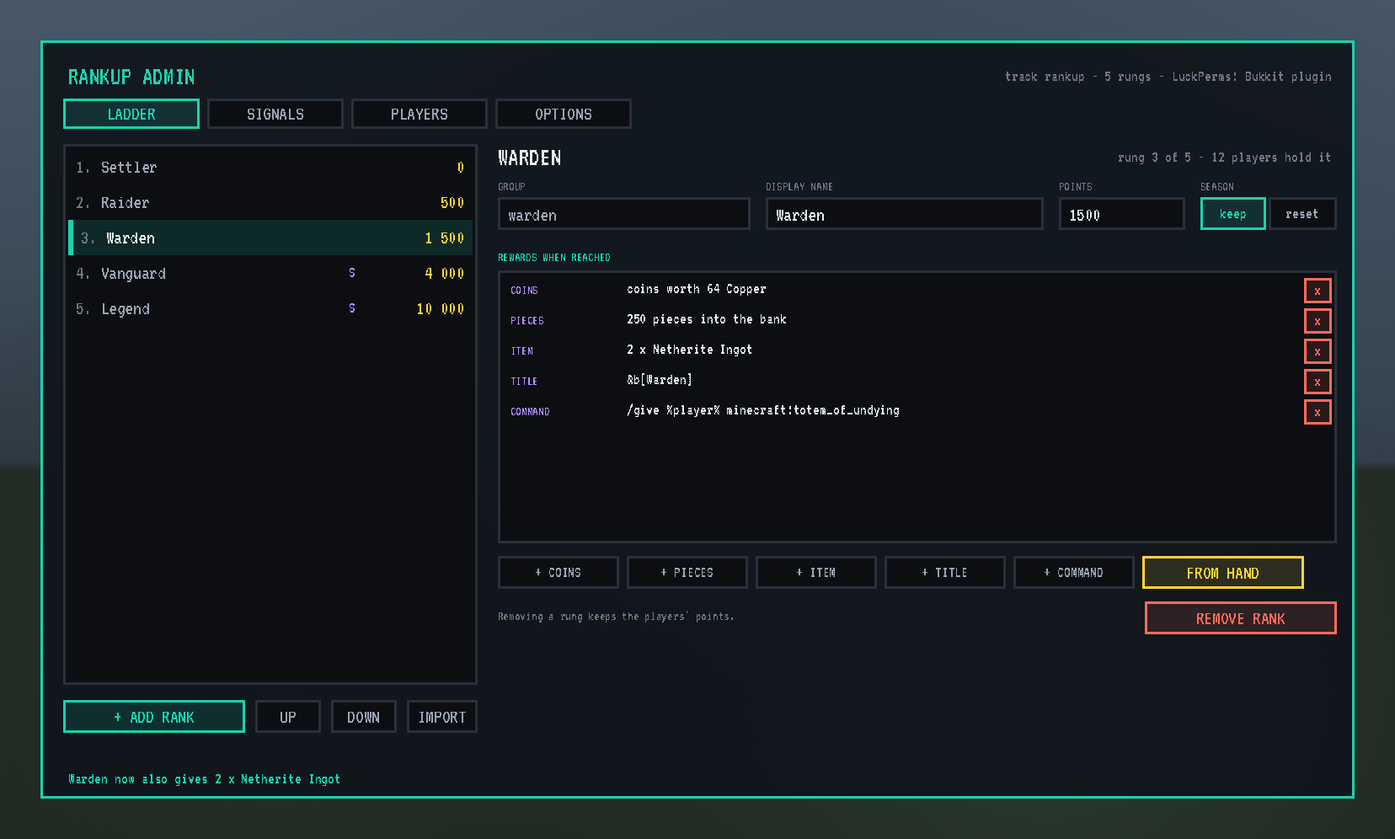
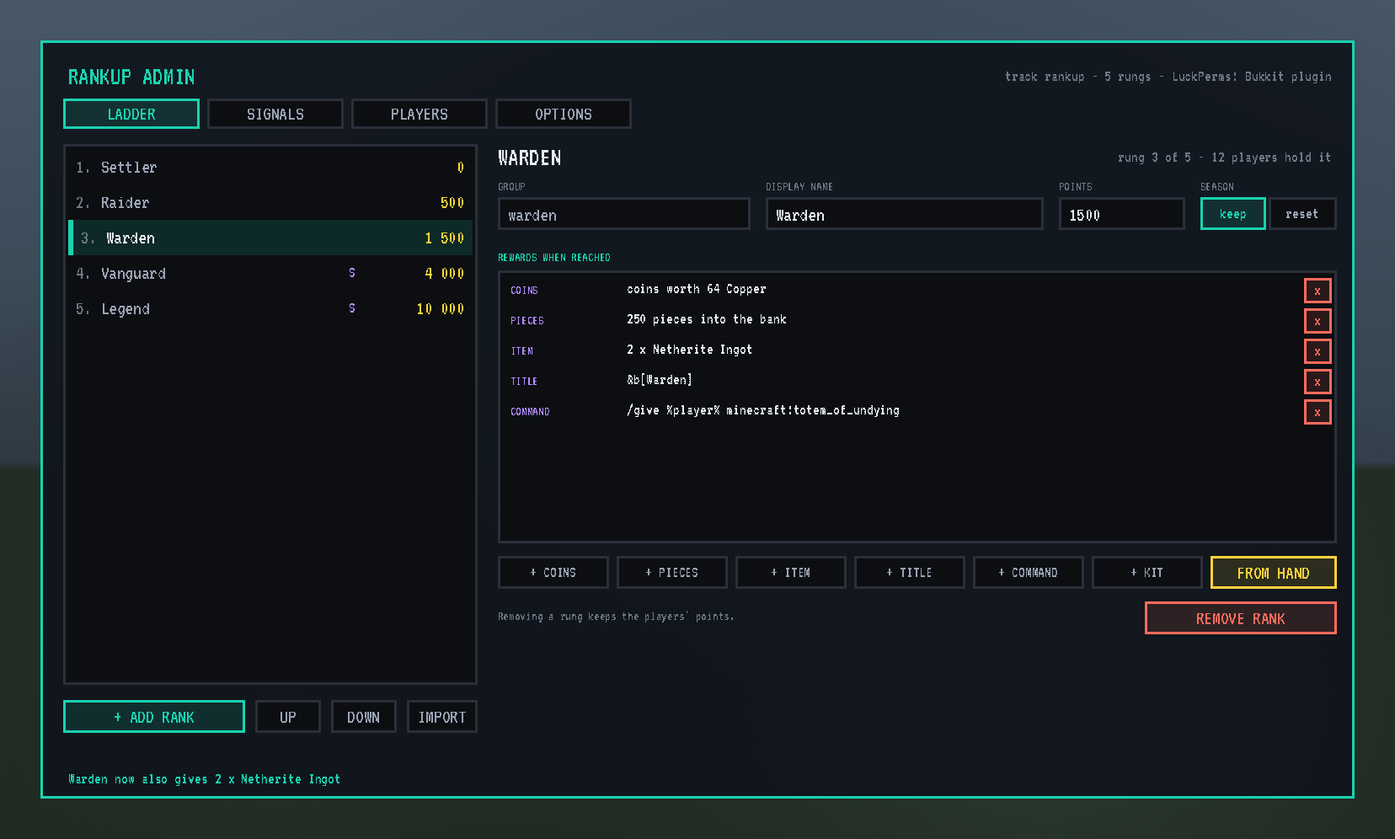
Curseforge 0.2.0 Upload

diff --git a/tools/curseforge/admin_ladder.html b/tools/curseforge/admin_ladder.html
@@ -1,5 +1,5 @@
 <!doctype html>
 <html><head><meta charset="utf-8"><meta name="size" content="552x332"><link rel="stylesheet" href="holo.css"></head>
 <body>
-<div class="world"></div><div class="screen" style="left:16px;top:16px;width:520px;height:300px"><div class="abs t1 tq" style="left:10px;top:8px;">RANKUP ADMIN</div><div class="abs t6 hint" style="left:510px;top:10px;transform:translateX(-100%)">track rankup - 5 rungs - LuckPerms: Bukkit plugin</div><div class="chip big on" style="left:8px;top:22px;width:54px;height:12px">LADDER</div><div class="chip big" style="left:65px;top:22px;width:54px;height:12px">SIGNALS</div><div class="chip big" style="left:122px;top:22px;width:54px;height:12px">PLAYERS</div><div class="chip big" style="left:179px;top:22px;width:54px;height:12px">OPTIONS</div><div class="inset" style="left:8px;top:40px;width:164px;height:214px;"><div class="row" style="top:1px;height:14px"><span class="t75 hint" style="width:10px">1.</span><span class="t75 muted" style="flex:1">Settler</span><span class="t75 gold" style="width:34px;text-align:right">0</span></div><div class="row" style="top:15px;height:14px"><span class="t75 hint" style="width:10px">2.</span><span class="t75 muted" style="flex:1">Raider</span><span class="t75 gold" style="width:34px;text-align:right">500</span></div><div class="row sel" style="top:29px;height:14px"><span class="t75 hint" style="width:10px">3.</span><span class="t75 text" style="flex:1">Warden</span><span class="t75 gold" style="width:34px;text-align:right">1 500</span></div><div class="row" style="top:43px;height:14px"><span class="t75 hint" style="width:10px">4.</span><span class="t75 muted" style="flex:1">Vanguard</span><span class="t6 vio" style="width:12px">S</span><span class="t75 gold" style="width:34px;text-align:right">4 000</span></div><div class="row" style="top:57px;height:14px"><span class="t75 hint" style="width:10px">5.</span><span class="t75 muted" style="flex:1">Legend</span><span class="t6 vio" style="width:12px">S</span><span class="t75 gold" style="width:34px;text-align:right">10 000</span></div></div><div class="btn tq" style="left:8px;top:260px;width:72px;height:13px">+ ADD RANK</div><div class="btn " style="left:84px;top:260px;width:26px;height:13px">UP</div><div class="btn " style="left:114px;top:260px;width:26px;height:13px">DOWN</div><div class="btn " style="left:144px;top:260px;width:28px;height:13px">IMPORT</div><div class="abs t1 text" style="left:180px;top:40px;">WARDEN</div><div class="abs t6 hint" style="left:510px;top:42px;transform:translateX(-100%)">rung 3 of 5 - 12 players hold it</div><div class="abs t5 hint" style="left:180px;top:54px;">GROUP</div><div class="inset" style="left:180px;top:61px;width:100px;height:13px;"></div><div class="abs t75 muted" style="left:184px;top:64px;">warden</div><div class="abs t5 hint" style="left:286px;top:54px;">DISPLAY NAME</div><div class="inset" style="left:286px;top:61px;width:110px;height:13px;"></div><div class="abs t75 text" style="left:290px;top:64px;">Warden</div><div class="abs t5 hint" style="left:402px;top:54px;">POINTS</div><div class="inset" style="left:402px;top:61px;width:50px;height:13px;"></div><div class="abs t75 text" style="left:406px;top:64px;">1500</div><div class="abs t5 hint" style="left:458px;top:54px;">SEASON</div><div class="chip on" style="left:458px;top:61px;width:26px;height:13px">keep</div><div class="chip " style="left:485px;top:61px;width:27px;height:13px">reset</div><div class="abs t5 tq" style="left:180px;top:82px;">REWARDS WHEN REACHED</div><div class="inset" style="left:180px;top:90px;width:332px;height:108px;"><div class="abs t5 vio" style="left:4px;top:4px;">COINS</div><div class="abs t6 text" style="left:50px;top:3px;">coins worth 64 Copper</div><div class="chip bad" style="left:318px;top:2px;width:11px;height:10px">x</div><div class="abs t5 vio" style="left:4px;top:16px;">PIECES</div><div class="abs t6 text" style="left:50px;top:15px;">250 pieces into the bank</div><div class="chip bad" style="left:318px;top:14px;width:11px;height:10px">x</div><div class="abs t5 vio" style="left:4px;top:28px;">ITEM</div><div class="abs t6 text" style="left:50px;top:27px;">2 x Netherite Ingot</div><div class="chip bad" style="left:318px;top:26px;width:11px;height:10px">x</div><div class="abs t5 vio" style="left:4px;top:40px;">TITLE</div><div class="abs t6 text" style="left:50px;top:39px;">&amp;b[Warden]</div><div class="chip bad" style="left:318px;top:38px;width:11px;height:10px">x</div><div class="abs t5 vio" style="left:4px;top:52px;">COMMAND</div><div class="abs t6 text" style="left:50px;top:51px;">/give %player% minecraft:totem_of_undying</div><div class="chip bad" style="left:318px;top:50px;width:11px;height:10px">x</div></div><div class="chip " style="left:180px;top:203px;width:48px;height:13px">+ COINS</div><div class="chip " style="left:231px;top:203px;width:48px;height:13px">+ PIECES</div><div class="chip " style="left:282px;top:203px;width:48px;height:13px">+ ITEM</div><div class="chip " style="left:333px;top:203px;width:48px;height:13px">+ TITLE</div><div class="chip " style="left:384px;top:203px;width:48px;height:13px">+ COMMAND</div><div class="btn gold" style="left:435px;top:203px;width:64px;height:13px">FROM HAND</div><div class="abs t5 hint" style="left:180px;top:224px;">Removing a rung keeps the players' points.</div><div class="btn bad" style="left:436px;top:221px;width:76px;height:13px">REMOVE RANK</div><div class="abs t6 tq" style="left:10px;top:288px;">Warden now also gives 2 x Netherite Ingot</div></div>
+<div class="world"></div><div class="screen" style="left:16px;top:16px;width:520px;height:300px"><div class="abs t1 tq" style="left:10px;top:8px;">RANKUP ADMIN</div><div class="abs t6 hint" style="left:510px;top:10px;transform:translateX(-100%)">track rankup - 5 rungs - LuckPerms: Bukkit plugin</div><div class="chip big on" style="left:8px;top:22px;width:54px;height:12px">LADDER</div><div class="chip big" style="left:65px;top:22px;width:54px;height:12px">SIGNALS</div><div class="chip big" style="left:122px;top:22px;width:54px;height:12px">PLAYERS</div><div class="chip big" style="left:179px;top:22px;width:54px;height:12px">OPTIONS</div><div class="inset" style="left:8px;top:40px;width:164px;height:214px;"><div class="row" style="top:1px;height:14px"><span class="t75 hint" style="width:10px">1.</span><span class="t75 muted" style="flex:1">Settler</span><span class="t75 gold" style="width:34px;text-align:right">0</span></div><div class="row" style="top:15px;height:14px"><span class="t75 hint" style="width:10px">2.</span><span class="t75 muted" style="flex:1">Raider</span><span class="t75 gold" style="width:34px;text-align:right">500</span></div><div class="row sel" style="top:29px;height:14px"><span class="t75 hint" style="width:10px">3.</span><span class="t75 text" style="flex:1">Warden</span><span class="t75 gold" style="width:34px;text-align:right">1 500</span></div><div class="row" style="top:43px;height:14px"><span class="t75 hint" style="width:10px">4.</span><span class="t75 muted" style="flex:1">Vanguard</span><span class="t6 vio" style="width:12px">S</span><span class="t75 gold" style="width:34px;text-align:right">4 000</span></div><div class="row" style="top:57px;height:14px"><span class="t75 hint" style="width:10px">5.</span><span class="t75 muted" style="flex:1">Legend</span><span class="t6 vio" style="width:12px">S</span><span class="t75 gold" style="width:34px;text-align:right">10 000</span></div></div><div class="btn tq" style="left:8px;top:260px;width:72px;height:13px">+ ADD RANK</div><div class="btn " style="left:84px;top:260px;width:26px;height:13px">UP</div><div class="btn " style="left:114px;top:260px;width:26px;height:13px">DOWN</div><div class="btn " style="left:144px;top:260px;width:28px;height:13px">IMPORT</div><div class="abs t1 text" style="left:180px;top:40px;">WARDEN</div><div class="abs t6 hint" style="left:510px;top:42px;transform:translateX(-100%)">rung 3 of 5 - 12 players hold it</div><div class="abs t5 hint" style="left:180px;top:54px;">GROUP</div><div class="inset" style="left:180px;top:61px;width:100px;height:13px;"></div><div class="abs t75 muted" style="left:184px;top:64px;">warden</div><div class="abs t5 hint" style="left:286px;top:54px;">DISPLAY NAME</div><div class="inset" style="left:286px;top:61px;width:110px;height:13px;"></div><div class="abs t75 text" style="left:290px;top:64px;">Warden</div><div class="abs t5 hint" style="left:402px;top:54px;">POINTS</div><div class="inset" style="left:402px;top:61px;width:50px;height:13px;"></div><div class="abs t75 text" style="left:406px;top:64px;">1500</div><div class="abs t5 hint" style="left:458px;top:54px;">SEASON</div><div class="chip on" style="left:458px;top:61px;width:26px;height:13px">keep</div><div class="chip " style="left:485px;top:61px;width:27px;height:13px">reset</div><div class="abs t5 tq" style="left:180px;top:82px;">REWARDS WHEN REACHED</div><div class="inset" style="left:180px;top:90px;width:332px;height:108px;"><div class="abs t5 vio" style="left:4px;top:4px;">COINS</div><div class="abs t6 text" style="left:50px;top:3px;">coins worth 64 Copper</div><div class="chip bad" style="left:318px;top:2px;width:11px;height:10px">x</div><div class="abs t5 vio" style="left:4px;top:16px;">PIECES</div><div class="abs t6 text" style="left:50px;top:15px;">250 pieces into the bank</div><div class="chip bad" style="left:318px;top:14px;width:11px;height:10px">x</div><div class="abs t5 vio" style="left:4px;top:28px;">ITEM</div><div class="abs t6 text" style="left:50px;top:27px;">2 x Netherite Ingot</div><div class="chip bad" style="left:318px;top:26px;width:11px;height:10px">x</div><div class="abs t5 vio" style="left:4px;top:40px;">TITLE</div><div class="abs t6 text" style="left:50px;top:39px;">&amp;b[Warden]</div><div class="chip bad" style="left:318px;top:38px;width:11px;height:10px">x</div><div class="abs t5 vio" style="left:4px;top:52px;">COMMAND</div><div class="abs t6 text" style="left:50px;top:51px;">/give %player% minecraft:totem_of_undying</div><div class="chip bad" style="left:318px;top:50px;width:11px;height:10px">x</div></div><div class="chip " style="left:180px;top:203px;width:44px;height:13px">+ COINS</div><div class="chip " style="left:227px;top:203px;width:44px;height:13px">+ PIECES</div><div class="chip " style="left:274px;top:203px;width:44px;height:13px">+ ITEM</div><div class="chip " style="left:321px;top:203px;width:44px;height:13px">+ TITLE</div><div class="chip " style="left:368px;top:203px;width:44px;height:13px">+ COMMAND</div><div class="chip " style="left:415px;top:203px;width:44px;height:13px">+ KIT</div><div class="btn gold" style="left:462px;top:203px;width:50px;height:13px">FROM HAND</div><div class="abs t5 hint" style="left:180px;top:224px;">Removing a rung keeps the players' points.</div><div class="btn bad" style="left:436px;top:221px;width:76px;height:13px">REMOVE RANK</div><div class="abs t6 tq" style="left:10px;top:288px;">Warden now also gives 2 x Netherite Ingot</div></div>
 </body></html>

diff --git a/tools/curseforge/kit_picker.html b/tools/curseforge/kit_picker.html
@@ -1,0 +1,5 @@
+<!doctype html>
+<html><head><meta charset="utf-8"><meta name="size" content="552x332"><link rel="stylesheet" href="holo.css"></head>
+<body>
+<div class="world"></div><div class="screen" style="left:16px;top:16px;width:520px;height:300px"><div class="abs t1 tq" style="left:10px;top:8px;">RANKUP ADMIN</div><div class="abs t6 hint" style="left:510px;top:10px;transform:translateX(-100%)">track rankup - 5 rungs - LuckPerms: Bukkit plugin</div><div class="chip big on" style="left:8px;top:22px;width:54px;height:12px">LADDER</div><div class="chip big" style="left:65px;top:22px;width:54px;height:12px">SIGNALS</div><div class="chip big" style="left:122px;top:22px;width:54px;height:12px">PLAYERS</div><div class="chip big" style="left:179px;top:22px;width:54px;height:12px">OPTIONS</div><div class="inset" style="left:8px;top:40px;width:164px;height:214px;"><div class="row" style="top:1px;height:14px"><span class="t75 hint" style="width:10px">1.</span><span class="t75 muted" style="flex:1">Settler</span><span class="t75 gold" style="width:34px;text-align:right">0</span></div><div class="row" style="top:15px;height:14px"><span class="t75 hint" style="width:10px">2.</span><span class="t75 muted" style="flex:1">Raider</span><span class="t75 gold" style="width:34px;text-align:right">500</span></div><div class="row sel" style="top:29px;height:14px"><span class="t75 hint" style="width:10px">3.</span><span class="t75 text" style="flex:1">Warden</span><span class="t75 gold" style="width:34px;text-align:right">1 500</span></div><div class="row" style="top:43px;height:14px"><span class="t75 hint" style="width:10px">4.</span><span class="t75 muted" style="flex:1">Vanguard</span><span class="t6 vio" style="width:12px">S</span><span class="t75 gold" style="width:34px;text-align:right">4 000</span></div><div class="row" style="top:57px;height:14px"><span class="t75 hint" style="width:10px">5.</span><span class="t75 muted" style="flex:1">Legend</span><span class="t6 vio" style="width:12px">S</span><span class="t75 gold" style="width:34px;text-align:right">10 000</span></div></div><div class="btn tq" style="left:8px;top:260px;width:72px;height:13px">+ ADD RANK</div><div class="btn " style="left:84px;top:260px;width:26px;height:13px">UP</div><div class="btn " style="left:114px;top:260px;width:26px;height:13px">DOWN</div><div class="btn " style="left:144px;top:260px;width:28px;height:13px">IMPORT</div><div class="abs t1 text" style="left:180px;top:40px;">WARDEN</div><div class="abs t6 hint" style="left:510px;top:42px;transform:translateX(-100%)">rung 3 of 5 - 12 players hold it</div><div class="abs t5 hint" style="left:180px;top:54px;">GROUP</div><div class="inset" style="left:180px;top:61px;width:100px;height:13px;"></div><div class="abs t75 muted" style="left:184px;top:64px;">warden</div><div class="abs t5 hint" style="left:286px;top:54px;">DISPLAY NAME</div><div class="inset" style="left:286px;top:61px;width:110px;height:13px;"></div><div class="abs t75 text" style="left:290px;top:64px;">Warden</div><div class="abs t5 hint" style="left:402px;top:54px;">POINTS</div><div class="inset" style="left:402px;top:61px;width:50px;height:13px;"></div><div class="abs t75 text" style="left:406px;top:64px;">1500</div><div class="abs t5 hint" style="left:458px;top:54px;">SEASON</div><div class="chip on" style="left:458px;top:61px;width:26px;height:13px">keep</div><div class="chip " style="left:485px;top:61px;width:27px;height:13px">reset</div><div class="abs t5 tq" style="left:180px;top:82px;">REWARDS WHEN REACHED</div><div class="inset" style="left:180px;top:90px;width:332px;height:108px;"><div class="abs t5 vio" style="left:4px;top:4px;">COINS</div><div class="abs t6 text" style="left:50px;top:3px;">coins worth 64 Copper</div><div class="chip bad" style="left:318px;top:2px;width:11px;height:10px">x</div><div class="abs t5 vio" style="left:4px;top:16px;">PIECES</div><div class="abs t6 text" style="left:50px;top:15px;">250 pieces into the bank</div><div class="chip bad" style="left:318px;top:14px;width:11px;height:10px">x</div><div class="abs t5 vio" style="left:4px;top:28px;">ITEM</div><div class="abs t6 text" style="left:50px;top:27px;">2 x Netherite Ingot</div><div class="chip bad" style="left:318px;top:26px;width:11px;height:10px">x</div><div class="abs t5 vio" style="left:4px;top:40px;">TITLE</div><div class="abs t6 text" style="left:50px;top:39px;">&amp;b[Warden]</div><div class="chip bad" style="left:318px;top:38px;width:11px;height:10px">x</div><div class="abs t5 vio" style="left:4px;top:52px;">COMMAND</div><div class="abs t6 text" style="left:50px;top:51px;">/give %player% minecraft:totem_of_undying</div><div class="chip bad" style="left:318px;top:50px;width:11px;height:10px">x</div><div class="abs t5 vio" style="left:4px;top:64px;">KIT</div><div class="abs t6 text" style="left:50px;top:63px;">the kit Warden's Armour</div><div class="chip bad" style="left:318px;top:62px;width:11px;height:10px">x</div></div><div class="chip " style="left:180px;top:203px;width:44px;height:13px">+ COINS</div><div class="chip " style="left:227px;top:203px;width:44px;height:13px">+ PIECES</div><div class="chip " style="left:274px;top:203px;width:44px;height:13px">+ ITEM</div><div class="chip " style="left:321px;top:203px;width:44px;height:13px">+ TITLE</div><div class="chip " style="left:368px;top:203px;width:44px;height:13px">+ COMMAND</div><div class="chip on" style="left:415px;top:203px;width:44px;height:13px">+ KIT</div><div class="btn gold" style="left:462px;top:203px;width:50px;height:13px">FROM HAND</div><div class="abs t5 hint" style="left:180px;top:223px;">pick a kit:</div><div class="chip vio" style="left:230px;top:220px;width:70px;height:13px">Starter Toolkit</div><div class="chip vio" style="left:303px;top:220px;width:70px;height:13px">Warden's Armour</div><div class="chip vio" style="left:376px;top:220px;width:66px;height:13px">Raider Rations</div><div class="btn " style="left:472px;top:220px;width:40px;height:13px">CANCEL</div><div class="abs t6 tq" style="left:10px;top:288px;">Warden now also gives the kit Warden's Armour</div></div>
+</body></html>

diff --git a/tools/curseforge/companions.html b/tools/curseforge/companions.html
@@ -1,5 +1,5 @@
 <!doctype html>
 <html><head><meta charset="utf-8"><meta name="size" content="592x176"><link rel="stylesheet" href="holo.css"></head>
 <body>
-<div class="world"></div><div class="card" style="left:12px;top:16px;width:180px;height:150px"><h3 class="tq">BSP CORE (required)</h3><p>Totem events: steals that succeed count as stolen for the thief and lost for the owner, steals that fail while you are online as protected, totems placed. The bank and the coins for rewards. The same admin list as every BSP mod. Season ends drive the seasonal rungs.</p></div><div class="card" style="left:206px;top:16px;width:180px;height:150px"><h3 class="vio">BSP REGION GUARD (optional)</h3><p>Buying a plot at the Land Office counts a claim bought. Region Guard's regions and mines are gated by LuckPerms groups: the ranks RankUp hands out open them. The server id is shared.</p></div><div class="card" style="left:400px;top:16px;width:180px;height:150px"><h3 class="gold">LUCKPERMS and BSP TELEPORT</h3><p>LuckPerms holds the ranks (Bukkit plugin on Mohist or the Forge mod): RankUp promotes along a track and sets prefix titles, and can create the track from its ladder. BSP Teleport needs no link; a teams mod can register the team hook so kills between teammates count for nothing.</p></div>
+<div class="world"></div><div class="card" style="left:12px;top:16px;width:180px;height:150px"><h3 class="tq">BSP CORE (required)</h3><p>Totem events: steals that succeed count as stolen for the thief and lost for the owner, steals that fail while you are online as protected, totems placed. The bank, the coins and (1.3.0) the kits for rewards. The same admin list as every BSP mod. Season ends drive the seasonal rungs.</p></div><div class="card" style="left:206px;top:16px;width:180px;height:150px"><h3 class="vio">BSP REGION GUARD (optional)</h3><p>Buying a plot at the Land Office counts a claim bought. Region Guard's regions and mines are gated by LuckPerms groups: the ranks RankUp hands out open them. The server id is shared.</p></div><div class="card" style="left:400px;top:16px;width:180px;height:150px"><h3 class="gold">LUCKPERMS and BSP TELEPORT</h3><p>LuckPerms holds the ranks (Bukkit plugin on Mohist or the Forge mod): RankUp promotes along a track and sets prefix titles, and can create the track from its ladder. BSP Teleport needs no link; a teams mod can register the team hook so kills between teammates count for nothing.</p></div>
 </body></html>

diff --git a/tools/curseforge/gen_pages.py b/tools/curseforge/gen_pages.py
@@ -79,7 +79,7 @@ def rung_list(selected):
 STATUS = "track rankup - 5 rungs - LuckPerms: Bukkit plugin"
 
 
-def admin_ladder():
+def admin_ladder(picking=False):
     s = screen_frame("RANKUP ADMIN", STATUS, 0) + rung_list("warden")
     px, py = 180, 40
     s += t("t1 text", px, py, "WARDEN") + t("t6 hint", W - 10, py + 2, "rung 3 of 5 - 12 players hold it", "transform:translateX(-100%)")
@@ -87,17 +87,34 @@ def admin_ladder():
     s += t("t5 hint", px + 278, py + 14, "SEASON") + chip(px + 278, py + 21, 26, 13, "keep", "on") + chip(px + 305, py + 21, 27, 13, "reset")
     s += t("t5 tq", px, py + 42, "REWARDS WHEN REACHED") + inset(px, py + 50, 332, 108)
     rows = [("COINS", "coins worth 64 Copper"), ("PIECES", "250 pieces into the bank"), ("ITEM", "2 x Netherite Ingot"), ("TITLE", "&amp;b[Warden]"), ("COMMAND", "/give %player% minecraft:totem_of_undying")]
+    if picking:
+        rows.append(("KIT", "the kit Warden's Armour"))
     for i, (k, v) in enumerate(rows):
         ry = 1 + i * 12
         s += t("t5 vio", 4, ry + 3, k) + t("t6 text", 50, ry + 2, v) + chip(332 - 14, ry + 1, 11, 10, "x", "bad")
     s += "</div>"
     ay = py + 50 + 108 + 5
-    for i, k in enumerate(["COINS", "PIECES", "ITEM", "TITLE", "COMMAND"]):
-        s += chip(px + i * 51, ay, 48, 13, "+ " + k)
-    s += btn(px + 255, ay, 64, 13, "FROM HAND", "gold")
-    s += t("t5 hint", px, ay + 21, "Removing a rung keeps the players' points.") + btn(W - 8 - 76, ay + 18, 76, 13, "REMOVE RANK", "bad")
-    s += t("t6 tq", 10, H - 12, "Warden now also gives 2 x Netherite Ingot")
+    s += kind_chips(px, ay, picking)
+    if picking:
+        s += t("t5 hint", px, ay + 20, "pick a kit:")
+        bx = px + 50
+        for name in ["Starter Toolkit", "Warden's Armour", "Raider Rations"]:
+            w = len(name) * 4 + 10
+            s += chip(bx, ay + 17, w, 13, name, "vio")
+            bx += w + 3
+        s += btn(px + 332 - 40, ay + 17, 40, 13, "CANCEL", "")
+        s += t("t6 tq", 10, H - 12, "Warden now also gives the kit Warden's Armour")
+    else:
+        s += t("t5 hint", px, ay + 21, "Removing a rung keeps the players' points.") + btn(W - 8 - 76, ay + 18, 76, 13, "REMOVE RANK", "bad")
+        s += t("t6 tq", 10, H - 12, "Warden now also gives 2 x Netherite Ingot")
     return s + "</div>"
+
+
+def kind_chips(px, ay, picking):
+    s = ""
+    for i, k in enumerate(["COINS", "PIECES", "ITEM", "TITLE", "COMMAND", "KIT"]):
+        s += chip(px + i * 47, ay, 44, 13, "+ " + k, "on" if picking and k == "KIT" else "")
+    return s + btn(px + 282, ay, 50, 13, "FROM HAND", "gold")
 
 
 def item_browser():
@@ -316,7 +333,7 @@ def network():
 
 def companions():
     s = '<div class="world"></div>'
-    s += card(12, 16, 180, 150, "BSP CORE (required)", "Totem events: steals that succeed count as stolen for the thief and lost for the owner, steals that fail while you are online as protected, totems placed. The bank and the coins for rewards. The same admin list as every BSP mod. Season ends drive the seasonal rungs.")
+    s += card(12, 16, 180, 150, "BSP CORE (required)", "Totem events: steals that succeed count as stolen for the thief and lost for the owner, steals that fail while you are online as protected, totems placed. The bank, the coins and (1.3.0) the kits for rewards. The same admin list as every BSP mod. Season ends drive the seasonal rungs.")
     s += card(206, 16, 180, 150, "BSP REGION GUARD (optional)", "Buying a plot at the Land Office counts a claim bought. Region Guard's regions and mines are gated by LuckPerms groups: the ranks RankUp hands out open them. The server id is shared.", "vio")
     s += card(400, 16, 180, 150, "LUCKPERMS and BSP TELEPORT", "LuckPerms holds the ranks (Bukkit plugin on Mohist or the Forge mod): RankUp promotes along a track and sets prefix titles, and can create the track from its ladder. BSP Teleport needs no link; a teams mod can register the team hook so kills between teammates count for nothing.", "gold")
     return s
@@ -365,12 +382,13 @@ def main():
     page("admin_players", PAGE, admin_players())
     page("admin_options", PAGE, admin_options())
     page("item_browser", PAGE, item_browser())
+    page("kit_picker", PAGE, admin_ladder(True))
     page("inventory_button", (350, 200), inventory_button())
     page("rankup_flow", (596, 140), flow())
     page("network", (590, 196), network())
     page("companions", (592, 176), companions())
     page("chat", (400, 120), chat())
-    print("12 pages written to", HERE)
+    print("13 pages written to", HERE)
 
 
 if __name__ == "__main__":

diff --git a/docs/curseforge/DESCRIPTION.md b/docs/curseforge/DESCRIPTION.md
@@ -2,7 +2,7 @@
 
 **BSP RankUp** ranks your players automatically. The more they play, fight and raid, the higher they climb a ladder of LuckPerms ranks, and every rung pays out: coins, pieces into the bank, items, a title, anything a command can give. Made for the Build Secure Protect server, where Shatter Totems are stolen and defended; works on any Forge 1.20.1 or Mohist server with BSP-Core and LuckPerms.
 
-**Requires:** Minecraft 1.20.1, Forge 47 or newer, Java 17, [BSP-Core](https://www.curseforge.com/minecraft/mc-mods/bsp-core) 1.1.0 or newer, and LuckPerms on the server (the Bukkit plugin on Mohist, or the Forge mod). Needed on the client and the server. **Optional:** BSP-Region Guard, BSP-Teleport.
+**Requires:** Minecraft 1.20.1, Forge 47 or newer, Java 17, [BSP-Core](https://www.curseforge.com/minecraft/mc-mods/bsp-core) 1.1.0 or newer (1.3.0 for kit rewards), and LuckPerms on the server (the Bukkit plugin on Mohist, or the Forge mod). Needed on the client and the server. **Optional:** BSP-Region Guard, BSP-Teleport.
 
 ## How it works
 
@@ -39,6 +39,10 @@ Make the track and its groups in LuckPerms, or let RankUp make them from its lad
 
 **+ ITEM** opens a browser over every item in the game, including every other mod's: type to search by name or id, click one, type the count.
 
+![Picking a kit as a reward](https://raw.githubusercontent.com/Build-Secure-Protect/BSP-RankUp/main/docs/curseforge/images/kit_picker.png)
+
+**+ KIT** shows the kits made in BSP-Core's admin panel; one click makes the kit the rung's reward. BSP-Core owes the kit to the player and hands it over when their inventory has room, at once or at their next login, so a full inventory never loses it.
+
 ![The SIGNALS tab](https://raw.githubusercontent.com/Build-Secure-Protect/BSP-RankUp/main/docs/curseforge/images/admin_signals.png)
 
 **SIGNALS:** what counts and how much. Switch each on or off and set its worth ("25 points per 1 kill", "1 point per 10 minutes"). Counts are kept even while a signal is off, so switching one on later credits what players already did.
@@ -71,7 +75,7 @@ With `storage.mode = "mysql"` in `serverconfig/bsp_rankup-server.toml` on each b
 
 ![What the companions add](https://raw.githubusercontent.com/Build-Secure-Protect/BSP-RankUp/main/docs/curseforge/images/companions.png)
 
-- **BSP-Core (required):** its totem events are the raiding signals (a successful steal is a totem stolen for the thief and lost for the owner; a failed one while the owner is online is a totem protected; totems placed), its bank and coins pay the rewards, its admin list is the admin list, and its season ends drive the seasonal rungs.
+- **BSP-Core (required):** its totem events are the raiding signals (a successful steal is a totem stolen for the thief and lost for the owner; a failed one while the owner is online is a totem protected; totems placed), its bank and coins pay the rewards, its kits can be rewards (BSP-Core 1.3.0), its admin list is the admin list, and its season ends drive the seasonal rungs.
 - **BSP-Region Guard (optional):** buying a plot at the Land Office counts a claim bought; Region Guard's rank-gated regions and mines open for the ranks RankUp hands out, since they are the same LuckPerms groups; on a network RankUp takes Region Guard's server name.
 - **BSP-Teleport (optional):** no link is needed; both run side by side.
 - **LuckPerms:** RankUp promotes along a track and sets prefix titles; it can create the track and its groups from the ladder. Give the groups rising weights and LuckPerms reports the highest as the primary group.

diff --git a/docs/curseforge/CHANGELOG_0.2.0.md b/docs/curseforge/CHANGELOG_0.2.0.md
@@ -1,0 +1,11 @@
+# BSP RankUp 0.2.0: kit rewards
+
+For Minecraft 1.20.1 (Forge 47.4.10 and Mohist), made for the Build Secure Protect modpack. Requires **BSP-Core 1.1.0** or newer (**1.3.0** for kit rewards) and **LuckPerms**. Works with **BSP-Region Guard** and **BSP-Teleport**.
+
+## Since 0.1.0
+- **Kit rewards.** A sixth reward kind, KIT: a rung can give a BSP-Core kit by name. BSP-Core owes the kit to the player and delivers it when their inventory has room, at once or at their next login (or from the WAITING card in their kit browser), so a rank-up never loses a kit to a full inventory. In the admin screen, **+ KIT** shows BSP-Core's kits as chips; `/rankup reward add <rank> kit <id>` does the same with tab completion. A kit BSP-Core does not know is refused. On a BSP-Core older than 1.3.0 the kind is refused and the other five work as before.
+- **Built against BSP-Core 1.3.0 and BSP-Region Guard 0.2.0.** No change in what RankUp needs: BSP-Core 1.1.0 or newer still runs it (without kit rewards), Region Guard 0.1.0 or newer still gives the claims-bought signal.
+- The players' and the admin's screens show kit rewards by the kit's name.
+
+## 0.1.0 (first release, 2026-10-18)
+- Automatic LuckPerms ranks from what players do: playtime, player and mob kills, deaths, Shatter Totems stolen, protected, lost and placed, seasons survived, claims bought (Region Guard); the ladder as a LuckPerms track with points, seasonal rungs and rewards (coins, pieces, items, titles, commands); the anti-farming rules; seasons; the admin screen and `/rankup`; the player screen (`/rank`, the U key, the inventory button); shared MySQL and Redis storage for a network; the api with `RankChangedEvent` and the team hook.

diff --git a/CHANGELOG.md b/CHANGELOG.md
@@ -4,11 +4,15 @@ All notable changes to BSP RankUp. Format follows Keep a Changelog; versions fol
 
 ## [Unreleased]
 
+## [0.2.0] - 2026-10-19
+
 ### Added (2026-10-19, kit rewards)
 - A sixth reward kind, **KIT**: a rung can give a BSP Core kit by id (BSP Core 1.3.0 or newer; its request K-1). BSP Core owes the kit and delivers it when the inventory has room, at once or at the next login, so it needs no online check. The admin screen's + KIT picks from BSP Core's kits by name; `/rankup reward add <group> kit <id>` with tab completion; a kit that BSP Core does not know is refused. On an older BSP Core the kind is refused and does nothing.
 
 ### Changed (2026-10-19, sibling versions)
 - Compiled against BSP Core 1.3.0 (its 1.1.0 jar is gone; still requires `[1.1.0,)`) and BSP Region Guard 0.2.0 (Region Guard's request RG-R2; still accepts `[0.1.0,)`). No code change; 26 GameTests pass.
+
+## [0.1.0] - 2026-10-18
 
 ### Added (2026-10-18, claims bought)
 - The `claims_bought` signal counts: with BSP Region Guard installed, every new claim a player buys (not an enlargement) counts one, through Region Guard's `ClaimPurchasedEvent` (its request RG-R1). Off by default like the other optional signals; switching it on gives points for claims already counted. One GameTest (26 in all).
